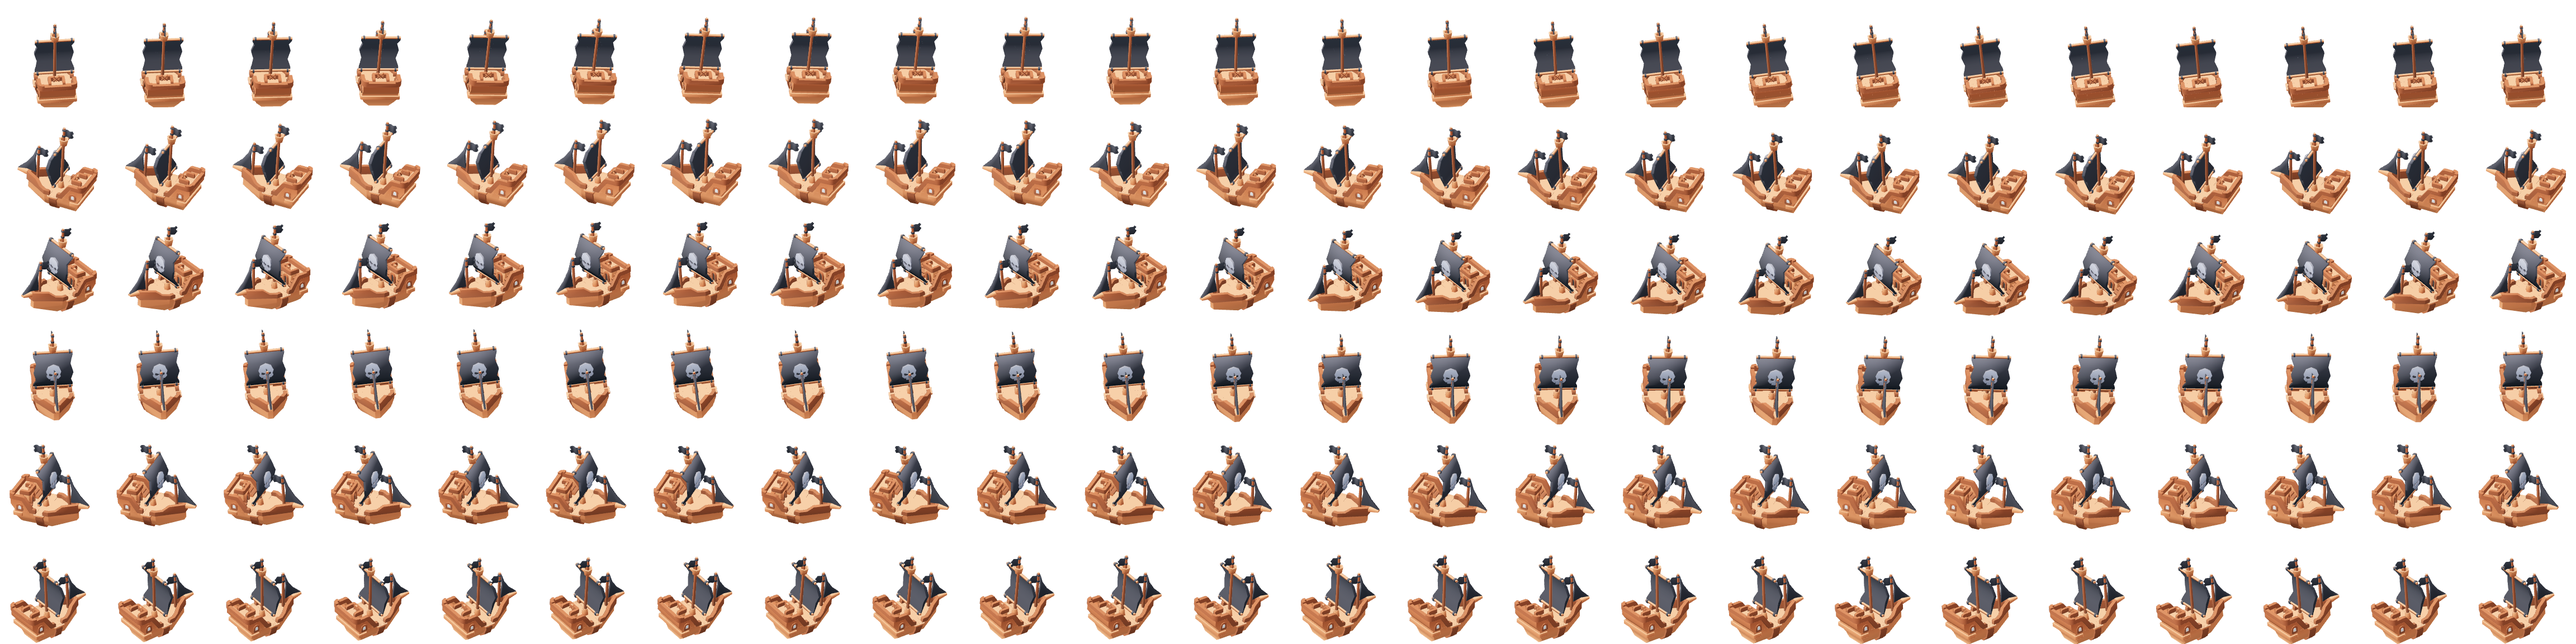
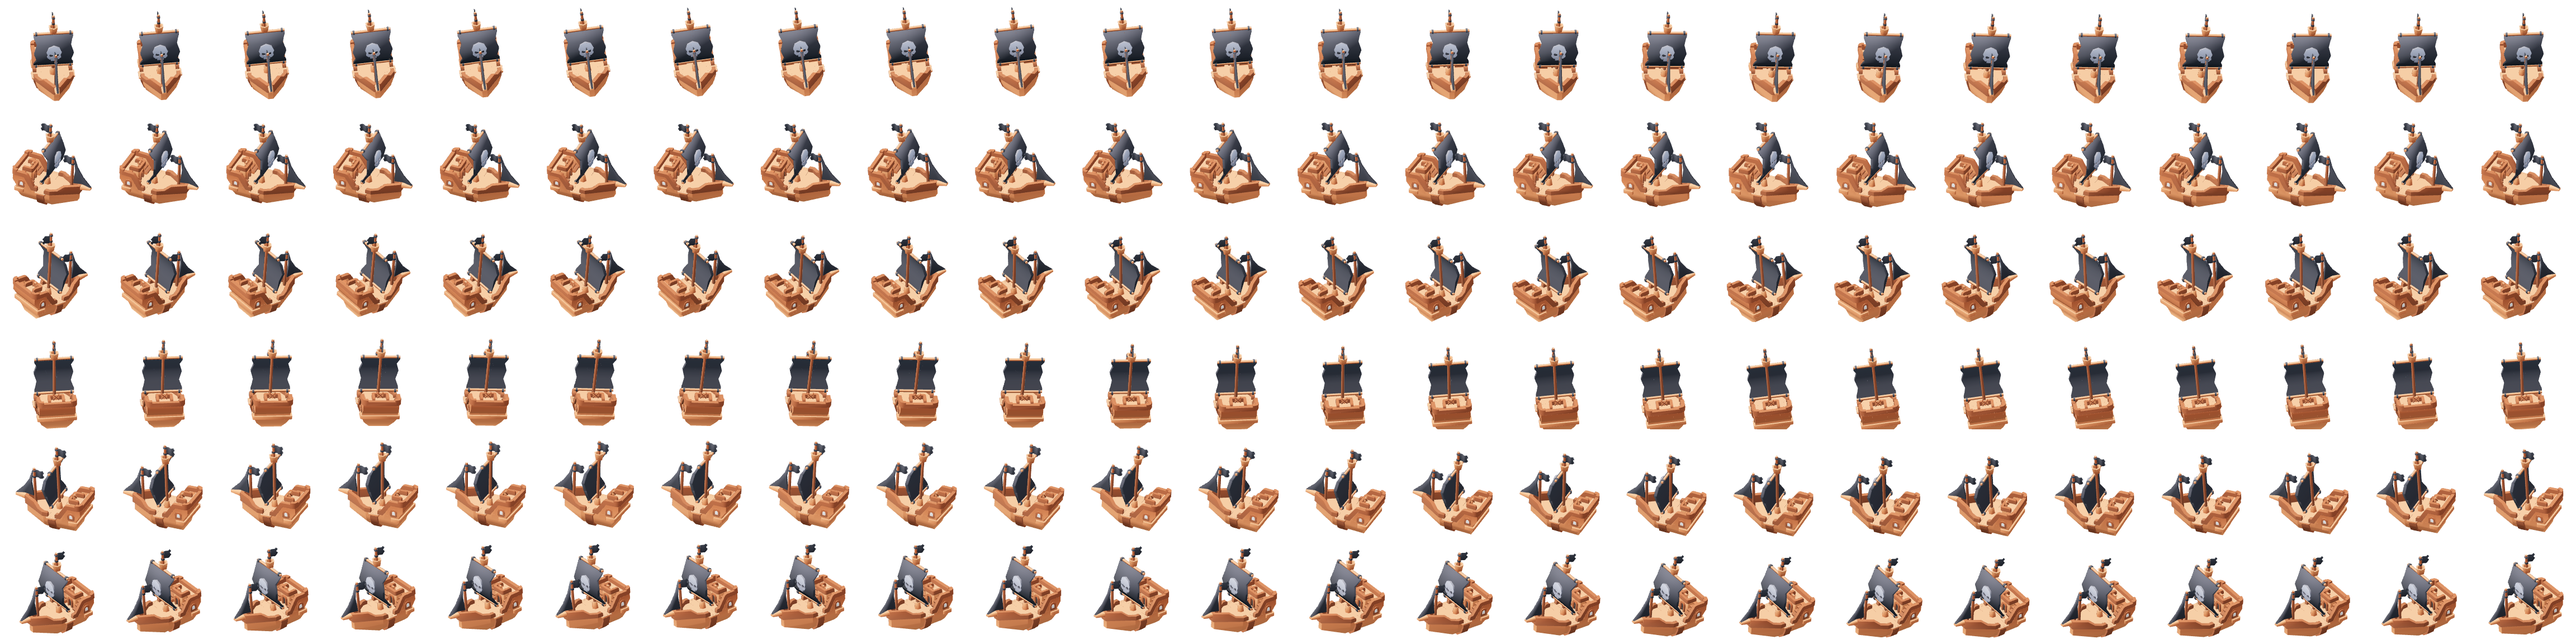
Face Hexkeep boats along their lane and ease their pace
The Pirate Kit hulls already carry their bow on +Z, the axis the walker sheets
bake headings against, so the extra half-turn the first bake applied sailed
every boat stern-first. Re-baked at yaw 0; a top-down render of both hulls
against a +Z marker is what settled it.

The raider boat's speed cap comes down a hex in both regions — two on the river,
three in the bay — so a surging boat reads as fast rather than as a jump.
Slower boats sit inside an ironclad's plating for longer, which made the storm
bay markedly harder, so its commander, escorts and toughness come down to match;
the mixed battery line still wins it for the same 520 answers, and neither an
all-magic nor an all-arrow line clears it.

Towers now shoot whichever attacker has the fewest steps left to the village
rather than the highest raw step. That is the same order on a one-route region,
and it stops a road and a lane of different lengths being compared by a number
that means something different on each.

diff --git a/games/hexkeep-map.js b/games/hexkeep-map.js
@@ -166,18 +166,18 @@
   {id:'river',map:river,board:river.board,name:'נהר הסוחרים',region:'מעלה הנהר',waves:10,tough:1.45,
    blurb:'סירות פשיטה מחליקות על הנהר וצוברות מהירות בכל פעימה שאיש לא פוגע בהן. ירי צפוף מרסן אותן — ועל המים אי אפשר לבנות.',
    count:wave=>5+Math.floor((wave-1)*.9),
-   enemy:(wave,index)=>index%3===0?{kind:'skiff',hp:4+Math.floor(wave/2),armor:0,speed:1,surge:3}
+   enemy:(wave,index)=>index%3===0?{kind:'skiff',hp:4+Math.floor(wave/2),armor:0,speed:1,surge:2}
     :index%3===1?{kind:'runner',hp:3+Math.floor((wave-1)/3),armor:0,speed:2}
     :{kind:'brute',hp:5+wave,armor:wave>=3?2:1},
-   boss:{kind:'skiff',name:'רב-החובל של הנהר',hp:118,armor:1,surge:3}},
-  {id:'coast',map:coast,board:coast.board,name:'מפרץ הסערה',region:'חוף הים',waves:10,tough:1.7,
+   boss:{kind:'skiff',name:'רב-החובל של הנהר',hp:118,armor:1,surge:2}},
+  {id:'coast',map:coast,board:coast.board,name:'מפרץ הסערה',region:'חוף הים',waves:10,tough:1.6,
    blurb:'הים פתוח והספינות המשוריינות מצפות גם את הסירות שלידן. חצים מחליקים מהשריון וקסם חודר אותו — צריך את שניהם יחד.',
    count:wave=>6+wave,
-   enemy:(wave,index)=>index%5===0?{kind:'warship',hp:8+wave,armor:3,plate:2}
+   enemy:(wave,index)=>index%5===0?{kind:'warship',hp:7+wave,armor:3,plate:2}
     :index%5===2?{kind:'knight',hp:5+Math.floor(wave/2),armor:1,shield:2+Math.floor(wave/4)}
     :index%5===4?{kind:'brute',hp:6+wave,armor:2}
-    :{kind:'skiff',hp:8+wave,armor:0,speed:1,surge:4},
-   boss:{kind:'warship',name:'ספינת הדגל',hp:138,armor:3,plate:2}}
+    :{kind:'skiff',hp:7+wave,armor:0,speed:1,surge:3},
+   boss:{kind:'warship',name:'ספינת הדגל',hp:124,armor:3,plate:2}}
  ];
 
  // The journey map between regions, drawn with Kenney's Cartography Pack on a

diff --git a/games/hexkeep.js b/games/hexkeep.js
@@ -108,7 +108,11 @@
    if(e.duelTicks%2===1)b.impacts.push({kind:'melee',enemyId:e.id,guardId:defender.id,damage:b.buildings[defender.site].level,at:440,done:false});
   });
   b.buildings.forEach((v,i)=>{if(!v||v.type==='guard')return;if(b.turn%TYPES[v.type].every)return;
-   const targets=b.enemies.filter(e=>{const P=pathOf(M,e);return e.hp-reservedDamage(b,e)>0&&e.step>=0&&e.step<P.length&&M.distance(M.sites[i].tile,P[e.step])<=range(v);}).sort((a,c)=>c.step-a.step);if(!targets.length)return;
+   // Whoever is closest to the village is shot first. Counting the steps still
+   // to run rather than the steps already taken keeps that fair across two
+   // routes of different lengths; on a one-route region it is the same order.
+   const left=e=>pathOf(M,e).length-1-e.step;
+   const targets=b.enemies.filter(e=>{const P=pathOf(M,e);return e.hp-reservedDamage(b,e)>0&&e.step>=0&&e.step<P.length&&M.distance(M.sites[i].tile,P[e.step])<=range(v);}).sort((a,c)=>left(a)-left(c));if(!targets.length)return;
    const target=targets[0],power=TYPES[v.type].damage[v.level-1];
    // Splash stays on the target's own route: a stone dropped in the lane never
    // scatters onto the road beside it.

diff --git a/tools/hexkeep-boat-render.html b/tools/hexkeep-boat-render.html
@@ -30,10 +30,11 @@ const post=(name,body)=>fetch('/_bake/'+name,{method:'POST',body});
 // across), `yaw` turns the hull so its bow points along the sheet's heading,
 // and `heave`/`roll`/`pitch` are the amplitudes of the swell.
 const BOATS=[
- // The Pirate Kit hulls sail along their own -Z, so every one is turned to put
- // its bow on the sheet's heading; `draft` sinks the keel under the waterline.
- {kind:'skiff',model:'skiff',fit:1.9,yaw:Math.PI,draft:.1,heave:.1,roll:.1,pitch:.05},
- {kind:'warship',model:'warship',fit:2.5,yaw:Math.PI,draft:.16,heave:.07,roll:.05,pitch:.035}
+ // Both Pirate Kit hulls already carry their bow on +Z, which is the heading
+ // axis the walker sheets use, so no extra yaw is needed; `draft` sinks the
+ // keel under the waterline.
+ {kind:'skiff',model:'skiff',fit:1.9,yaw:0,draft:.1,heave:.1,roll:.1,pitch:.05},
+ {kind:'warship',model:'warship',fit:2.5,yaw:0,draft:.16,heave:.07,roll:.05,pitch:.035}
 ];
 const only=new URLSearchParams(location.search).get('only');
 (async()=>{try{

diff --git a/HEXKEEP_SPEC.md b/HEXKEEP_SPEC.md
@@ -124,11 +124,13 @@ village, and a boat that reaches its landing costs a heart exactly as a walker
 does. Towers are land structures: a plot on a water hex cannot be bought at any
 price, and a plot qualifies by seeing either route, so a shore battery may
 defend only the lane. Soldiers hold the road, so a boat is never blocked, never
-duels and ships no melee atlas. Catapult splash stays on its target's own route.
+duels and ships no melee atlas. Catapult splash stays on its target's own route, and every tower shoots
+whichever attacker has the fewest steps left to the village, so two routes of
+different lengths are compared fairly.
 
 | Attacker | Behaviour | Counter |
 |---|---|---|
-| Raider boat (`skiff`) | Gathers a hex of speed every beat nothing touches it, up to its own limit; any wound that lands drops it back to a crawl | Arrows, which land on every beat and pin it; slow artillery lets it run between stones |
+| Raider boat (`skiff`) | Gathers a hex of speed every beat nothing touches it, up to its own limit — two hexes on the river, three in the bay; any wound that lands drops it back to a crawl | Arrows, which land on every beat and pin it; slow artillery lets it run between stones |
 | Ironclad (`warship`) | Heavy armour, and it plates every boat within one lane hex — itself excluded, so sinking it strips the whole escort at once | Magic, which ignores armour and plate alike |
 
 The two are mixed with attackers the player already knows, so neither a

diff --git a/HEXKEEP_QA.md b/HEXKEEP_QA.md
@@ -84,3 +84,15 @@ exist (debug returned in fca180c behind a localhost `?debug=1` gate), and the
 context suite still expected the pre-rebalance level-two catapult stone.
 
 Cache version: v204-hexkeep-water.
+
+Heading and pace correction (v204): the Pirate Kit hulls already carry their bow
+on +Z, which is the axis the walker sheets bake headings against, so the extra
+half-turn the first bake applied sailed every boat stern-first; the boats are
+re-baked at `yaw: 0` and now face along the lane. The raider boat's speed cap
+came down a hex in both regions (two on the river, three in the bay), and towers
+now pick the attacker with the fewest steps left to the village instead of the
+highest raw step, which is the same order on a one-route region but fair across
+a road and a lane. The storm bay was retuned around the slower boats — they stay
+inside an ironclad's plating longer, which made the region harder — so its
+commander, escorts and toughness came down and the mixed battery line wins it
+for the same 520 answers as before.
